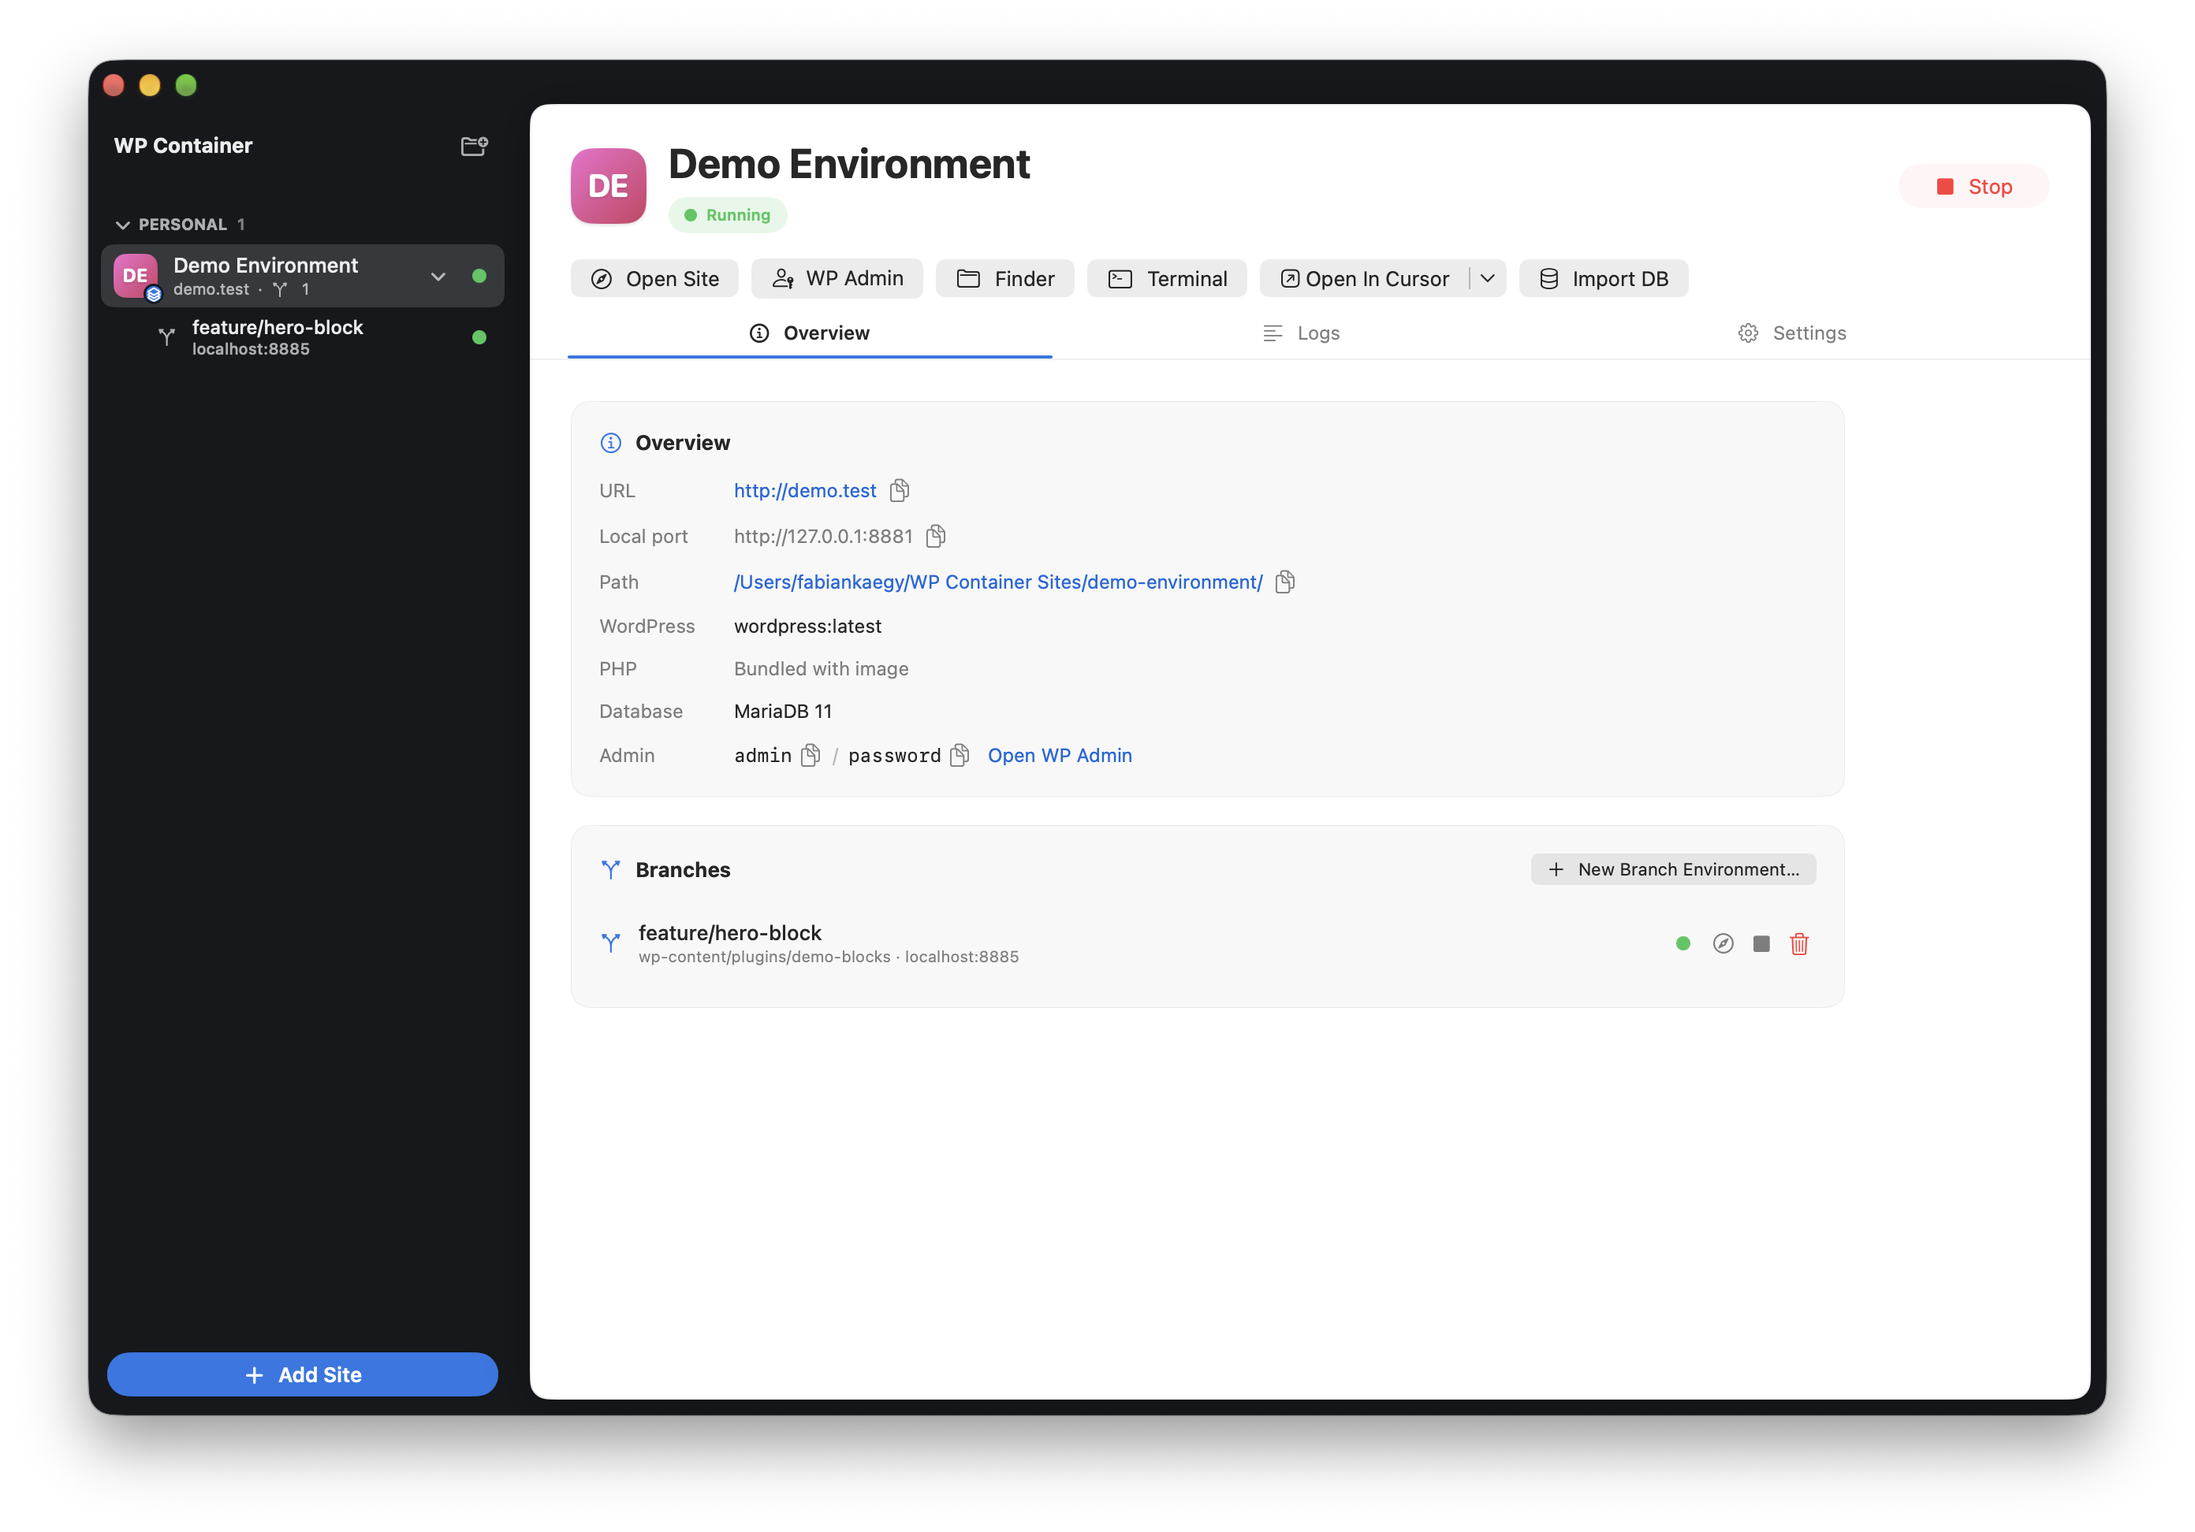
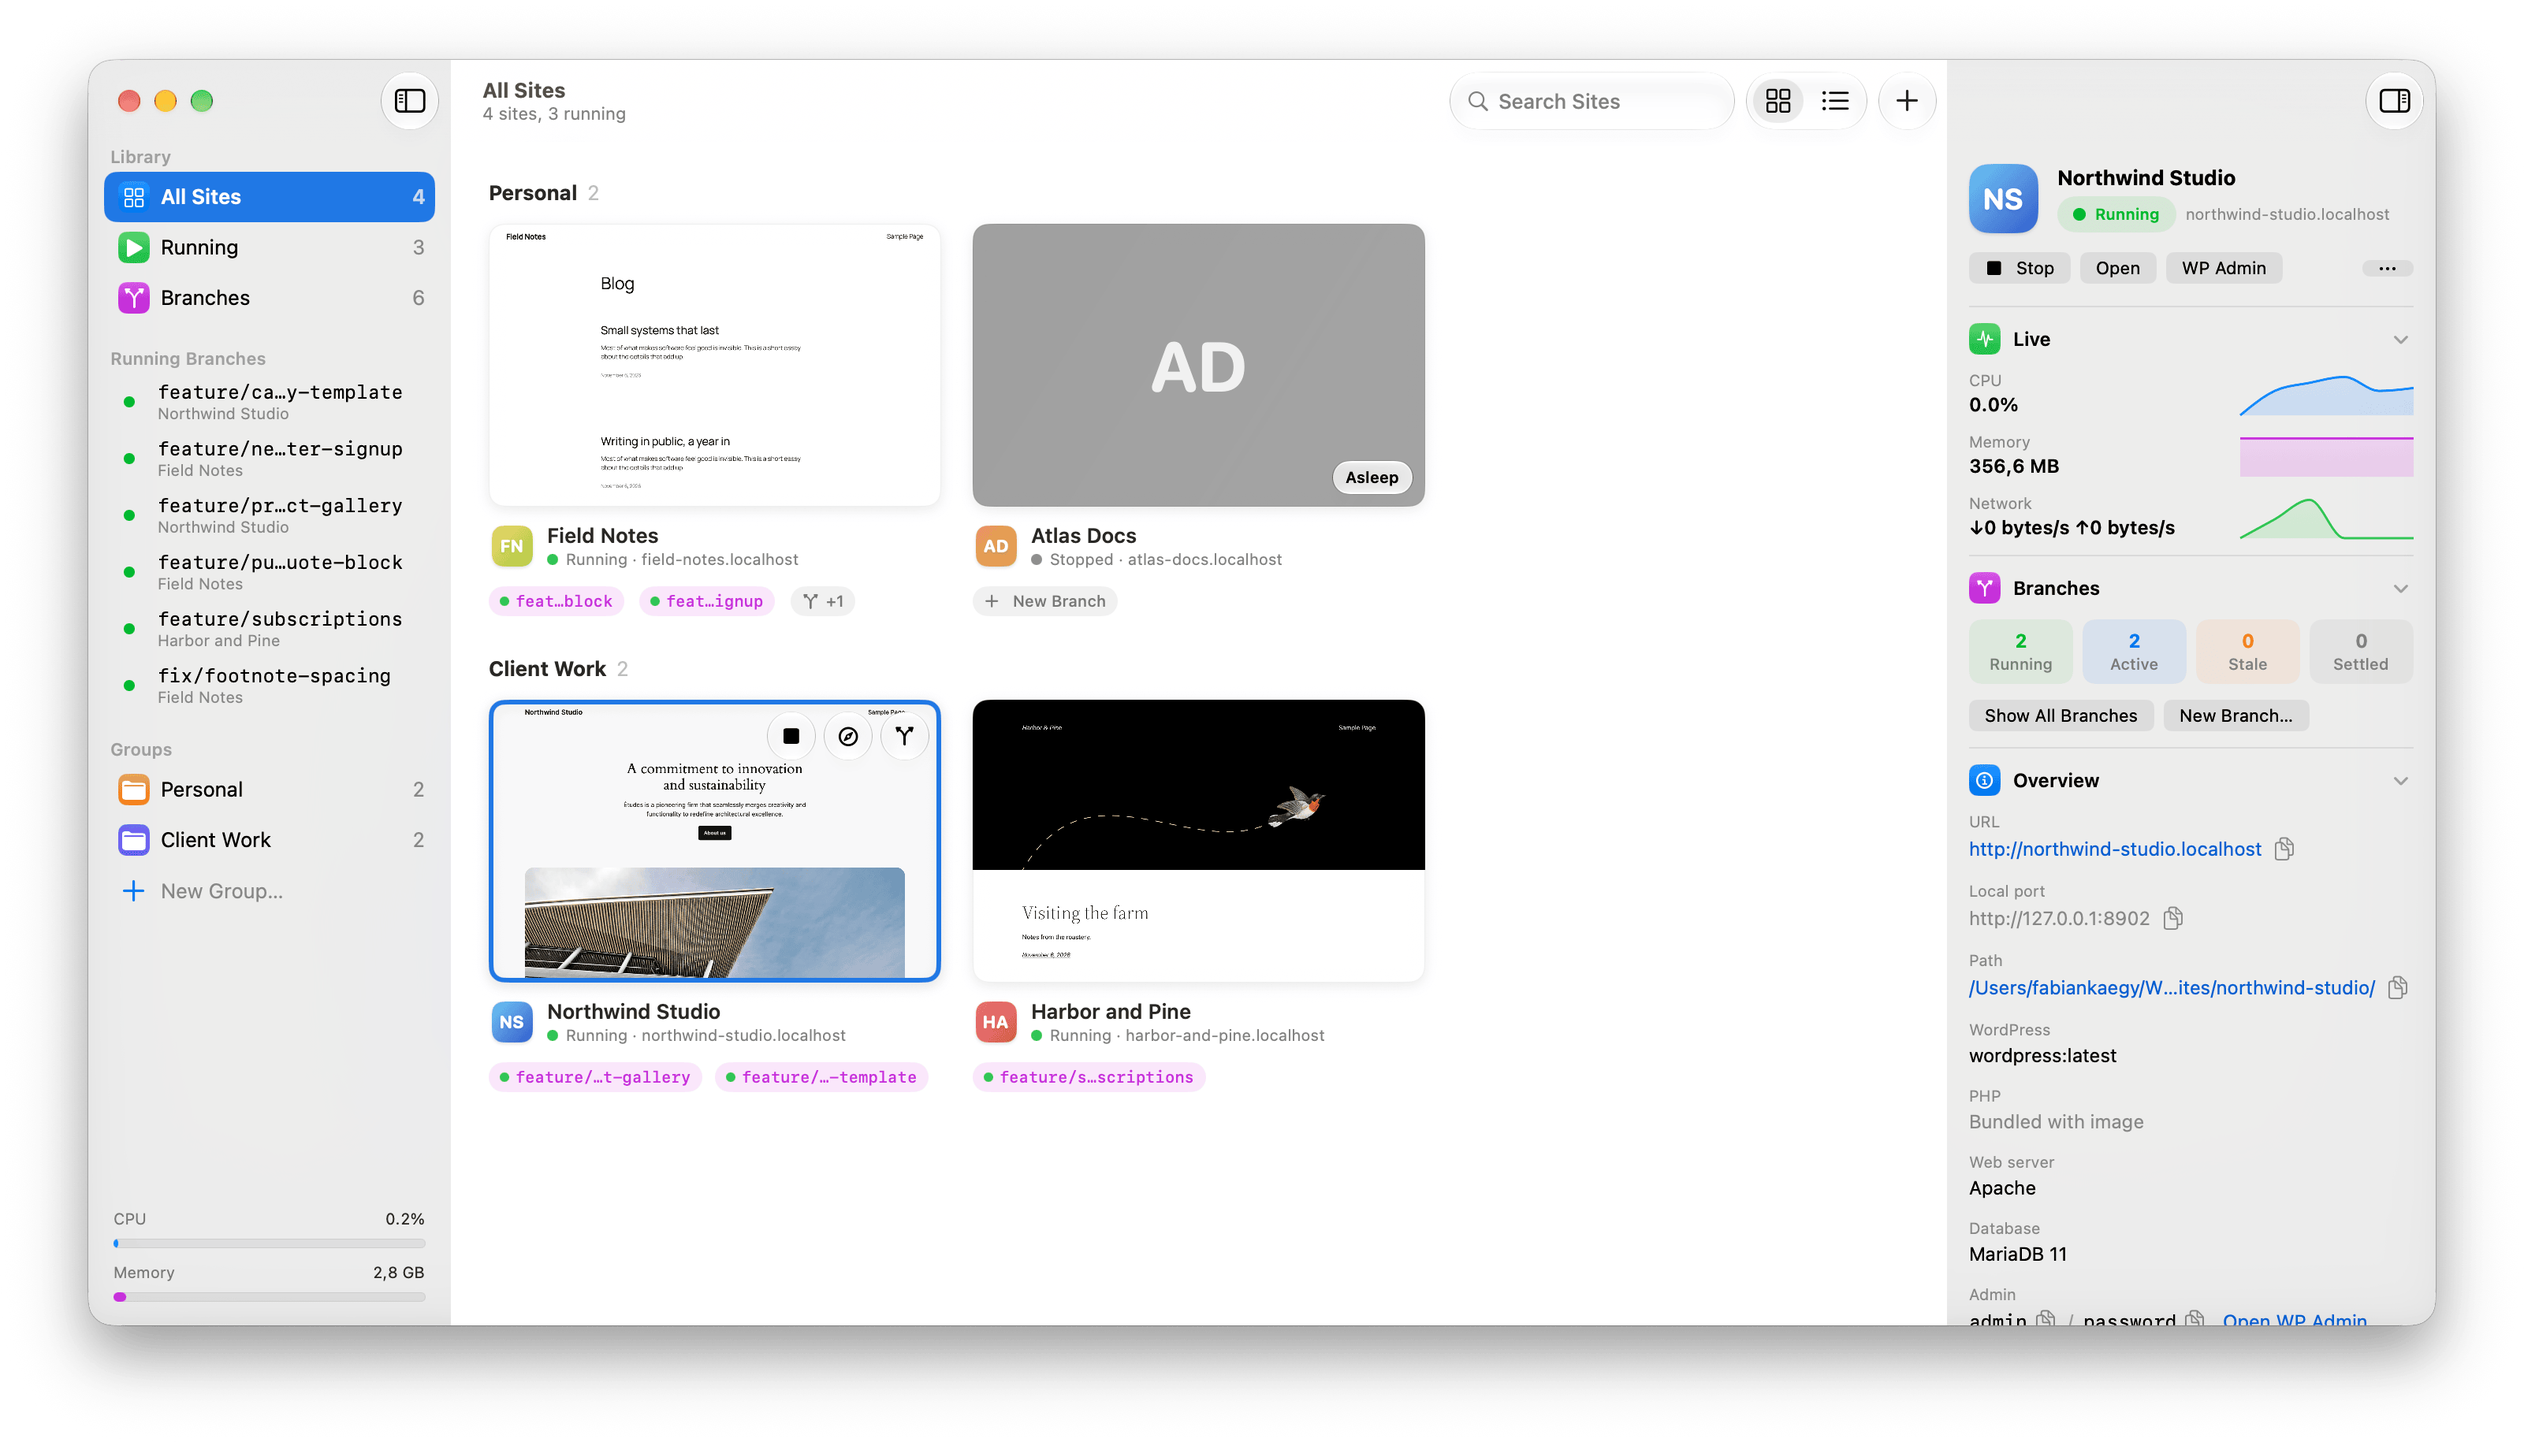
docs: new README and website screenshots for the 0.4.0 window
Recaptured from a debug build under a separate home whose store holds
only four throwaway demo sites (no real slugs), opened with launch flags
instead of clicks: the gallery with the inspector, and a site screen with
its running branches. The settings screenshot is replaced by the site
screen, README and website copy now describe the gallery, list and
inspector, and settings references point at the inspector's cards.

Adds a debug-only -uiSelect <slug> launch flag so the inspector can be
shown in screenshots without a click.

diff --git a/website/index.html b/website/index.html
@@ -92,8 +92,8 @@
       <div class="hero-shot-wrap">
         <div class="hero-shot">
           <img src="assets/screenshot-main.png"
-               width="2784" height="1944"
-               alt="WP Container app showing the Demo Environment site overview: URL, local port, WordPress and PHP versions, and a Branches panel for creating branch environments."
+               width="3202" height="1830"
+               alt="WP Container app showing a gallery of four sites with homepage snapshots, running branch environments in the sidebar, and the inspector for the selected site with live CPU, memory and network."
                fetchpriority="high">
         </div>
       </div>
@@ -231,12 +231,12 @@
             The app
           </span>
           <h2>A Studio-style app, all the way down.</h2>
-          <p>A dark window shell with a light inset content panel, live status in the sidebar, and a menu-bar extra for one-glance control of every site.</p>
+          <p>Your sites as a gallery or a list, a screen for each site with its branches, live CPU, memory and network, and an inspector with every setting. Plus a menu-bar extra for one-glance control of every site.</p>
         </header>
 
         <div class="shot shot-inline reveal">
-          <img src="assets/screenshot-settings.png" width="2784" height="1944" loading="lazy"
-               alt="WP Container Settings tab: toggles for Trusted HTTPS with a trusted certificate authority, AI Agent Tools, the global wp command, Xdebug, Elasticsearch, and WP_DEBUG debugging switches.">
+          <img src="assets/screenshot-site.png" width="3202" height="1830" loading="lazy"
+               alt="The Northwind Studio site screen: two running branch environments, live CPU, memory and network charts, the add-on stack, logs, and the inspector with the site's URL, path, versions and database details.">
         </div>
 
         <div class="shot-caption-grid">

diff --git a/WPContainer/Views/Main/MainWindow.swift b/WPContainer/Views/Main/MainWindow.swift
@@ -98,8 +98,9 @@ struct MainWindow: View {
     }
 
     #if DEBUG
-    /// Debug-only: `-uiScreen <slug> [-uiTab branches] [-uiStyle list] [-uiLibrary branches|archived]` opens a
-    /// screen at launch, so layout can be checked from screenshots alone.
+    /// Debug-only: `-uiScreen <slug> [-uiTab branches] [-uiStyle list] [-uiLibrary branches|archived]
+    /// [-uiSelect <slug>]` opens a screen (or selects a site for the inspector) at launch, so layout
+    /// can be checked and README screenshots retaken without clicking.
     private func openLaunchScreen() {
         let defaults = UserDefaults.standard
         if let style = defaults.string(forKey: "uiStyle").flatMap(LibraryStyle.init(rawValue:)) { vm.libraryStyle = style }
@@ -107,6 +108,9 @@ struct MainWindow: View {
         case "branches": vm.showLibrary(.branches)
         case "archived": vm.showLibrary(.archived)
         default: break
+        }
+        if let slug = defaults.string(forKey: "uiSelect") {
+            vm.selection = vm.sites.first { $0.slug == slug }?.id ?? vm.envs.first { $0.envSlug == slug }?.id
         }
         guard let slug = defaults.string(forKey: "uiScreen") else { return }
         let id = vm.sites.first { $0.slug == slug }?.id ?? vm.envs.first { $0.envSlug == slug }?.id

diff --git a/README.md b/README.md
@@ -33,11 +33,11 @@ Sites are provisioned automatically (no install wizard) and log in with
 `admin` / `password`.
 
 <p align="center">
-  <img src="docs/assets/screenshot-main.png" alt="WP Container — site overview with branch environments" width="850">
+  <img src="docs/assets/screenshot-main.png" alt="WP Container: a gallery of sites with homepage snapshots, running branch environments in the sidebar, and the inspector for the selected site" width="850">
 </p>
 
 <p align="center">
-  <img src="docs/assets/screenshot-settings.png" alt="Settings — trusted HTTPS, AI agent tools, Xdebug, Elasticsearch, and WP_DEBUG controls" width="850">
+  <img src="docs/assets/screenshot-site.png" alt="A site screen: running branch environments, live CPU, memory and network, the add-on stack, and logs" width="850">
 </p>
 
 <p align="center">
@@ -76,19 +76,21 @@ Sites are provisioned automatically (no install wizard) and log in with
 - **Ephemeral containers, durable sites** — containers are disposable (`--rm`);
   all state lives in the site folder. Sites survive app restarts and reconcile
   against real container state via labels.
-- **Studio-style dark-frame UI** — dark window shell with a light inset content
-  panel, Overview / Logs / Settings tabs, collapsible **site groups** with
-  drag & drop, and a **menu bar extra** for one-glance status and start/stop of
-  every site. Sites with a favicon or WordPress Site Icon show it as their
-  avatar; sidebar rows get right-click quick actions and a clickable
-  start/stop status dot.
+- **Native macOS window** — a library sidebar, your sites as a **gallery** of
+  homepage snapshots or a sortable, configurable **list**, and an **inspector**
+  (⌥⌘I) with every setting for the selection. Each site gets a screen with its
+  branch environments, live CPU / memory / network, the add-on stack and logs,
+  plus a **Branches** table with filters and bulk actions for sites with dozens
+  of environments. **Site groups** with drag & drop, **archived** sites, each
+  site's WordPress Site Icon as its avatar, and a **menu bar extra** for
+  one-glance status and start/stop of every site.
 - **Menu-bar-first option** — app settings (⌘,) cover hiding the Dock icon,
   launch at login, default sites folder and WP×PHP versions, HTTPS-proxy
   autostart, and notifications. Native macOS notifications fire for background
   start/stops, site creation, branch environments coming up (click to open),
   core updates, and proxy failures.
 
-- **Xdebug & Elasticsearch** — per-site one-click toggles in Settings → Development.
+- **Xdebug & Elasticsearch** — per-site one-click toggles in the inspector's Development card.
   Xdebug builds a derived image once per base tag and points `client_host` at the
   host gateway (port 9003); Elasticsearch runs a single-node sidecar wired into
   WordPress (ElasticPress-ready). Recipes validated in `scripts/validate-addons.sh`.
@@ -106,9 +108,9 @@ Sites are provisioned automatically (no install wizard) and log in with
   flagged and synced the same way.
 - **WP × PHP versions** — the new-site flow is a 3-step guide (name → WordPress ×
   PHP version with a live image-tag preview → options); change PHP later (image
-  swap + restart) or update core from Settings → Software.
+  swap + restart) or update core from the inspector's Software card.
 - **Apache or nginx** — pick the web server when creating a site, or switch it
-  later from Settings → Software (`wp-container web-server nginx <site>`).
+  later from the inspector's Software card (`wp-container web-server nginx <site>`).
   nginx sites run nginx + PHP-FPM in one container, built once per version from
   the official `wordpress:<version>-fpm` image; files and database are untouched
   by a switch. Extra nginx rules go in the site's `nginx/` folder (next to
@@ -163,7 +165,7 @@ Sites are provisioned automatically (no install wizard) and log in with
   when the site is created.
 - **Dev-ready by default** — every site gets `WP_DEVELOPMENT_MODE=all` /
   `WP_ENVIRONMENT_TYPE=local`, with live `WP_DEBUG`-family switches in
-  Settings → Development.
+  the inspector's Development card.
 - **Mailpit email catching** — per-site toggle; all outgoing mail lands in a
   local mailbox (`https://<site>-mail.localhost`, plus a REST API agents can
   read). Persistent across restarts.
@@ -171,7 +173,7 @@ Sites are provisioned automatically (no install wizard) and log in with
   Redis container and defines `WP_REDIS_HOST`/`WP_REDIS_PORT` for an object-cache
   drop-in such as the Redis Object Cache plugin, which you install in the site.
 - **Per-site resource limits** — cap CPU/memory per site in
-  Settings → Resources or `wp-container limits <slug> --cpus 2 --memory 512`
+  the inspector's Resources card or `wp-container limits <slug> --cpus 2 --memory 512`
   (see [docs/RESOURCES.md](docs/RESOURCES.md)).
 - **Auto-stop idle, wake on request** — a branch environment nobody has used for
   3 hours is stopped and its ~500 MB returned to macOS; the next request to its
@@ -273,8 +275,8 @@ site.
 - A site is never auto-stopped while any of its environments are running, and
   stopping an environment also retires the parent's shared MariaDB container once
   nothing else needs it — that's the other ~470 MB.
-- Configure per instance: the **Idle stop** card on a site's Settings tab or an
-  environment's detail pane,
+- Configure per instance: the **Idle stop** card in the inspector for a site or an
+  environment,
   `wp-container idle <slug> [--minutes N | --off | --default]`, or the
   `set_idle_stop` MCP tool so an agent can opt its own environment out while it's
   mid-task and back in when it's done.
